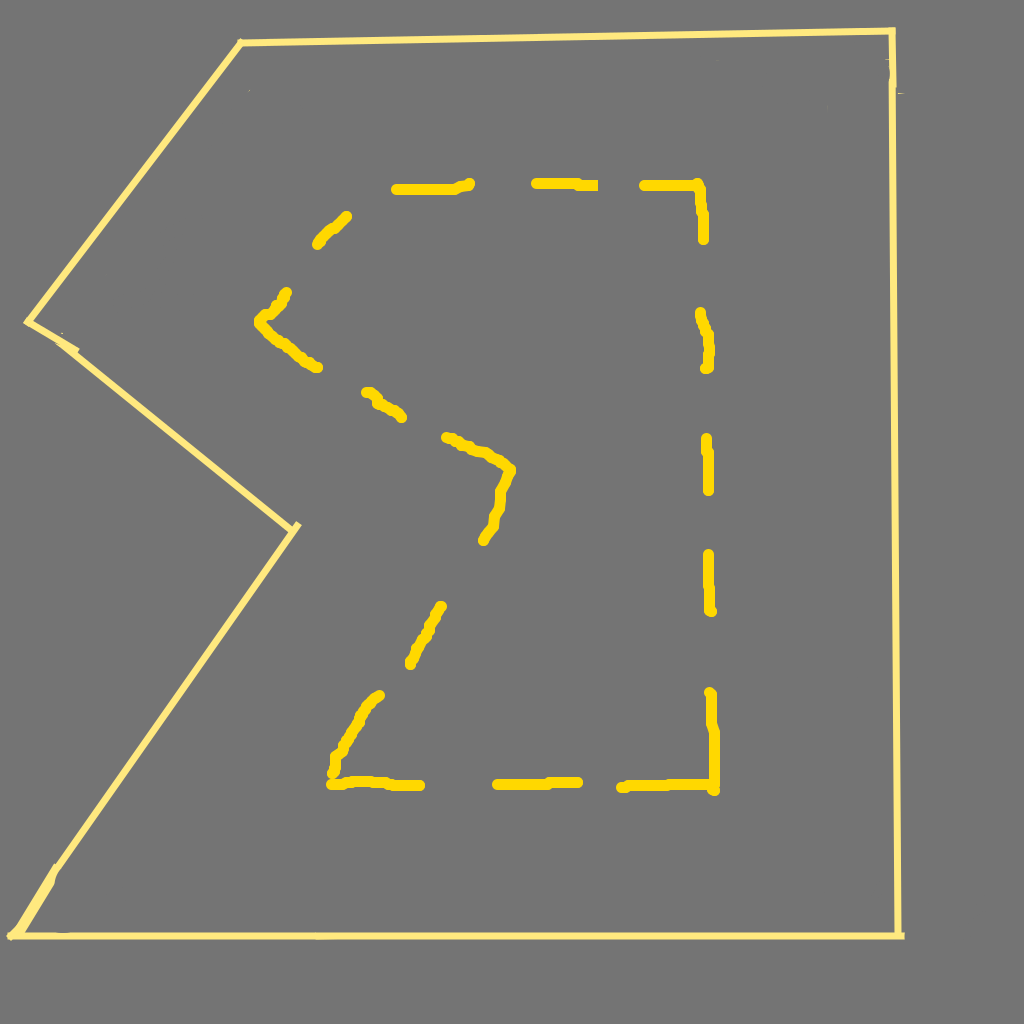
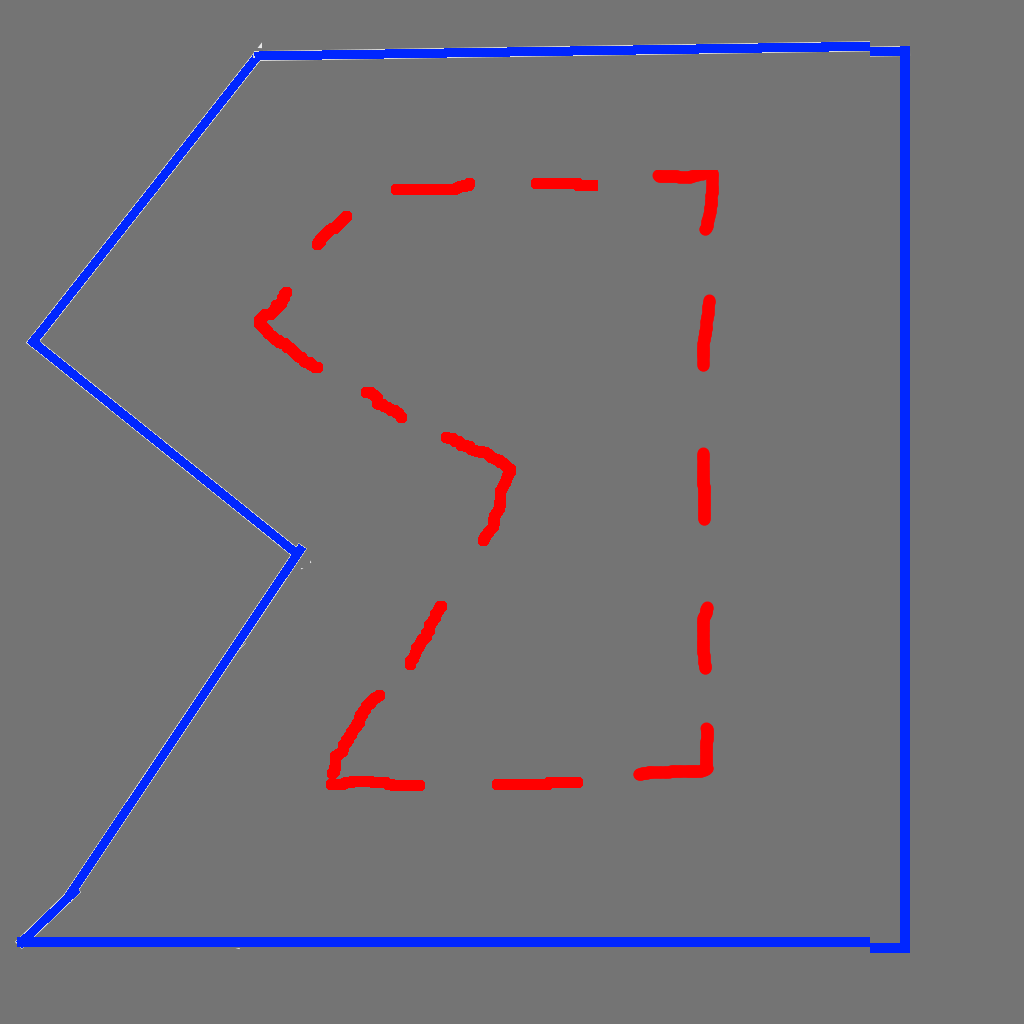
added 2 line tracking base

diff --git a/src/competition2/follower_p.py b/src/competition2/follower_p.py
@@ -8,25 +8,39 @@ class Follower:
   def __init__(self):
     self.bridge = cv_bridge.CvBridge()
     cv2.namedWindow("window", 1)
-    cv2.namedWindow("raw_mask", 1)
-    cv2.namedWindow("refined_mask", 1)
+    #cv2.namedWindow("raw_mask", 1)
+    cv2.namedWindow("white_refined_mask", 1)
+    cv2.namedWindow("yellow_refined_mask", 1)
     cv2.namedWindow("light_mask", 1)
-    cv2.namedWindow("trimmed_mask", 1)
+    cv2.namedWindow("white_trimmed_mask", 1)
+    cv2.namedWindow("yellow_trimmed_mask", 1)
     self.image_sub = rospy.Subscriber('camera/rgb/image_raw', 
                                       Image, self.image_callback)
     self.cmd_vel_pub = rospy.Publisher('cmd_vel_mux/input/teleop',
                                        Twist, queue_size=1)
     self.twist = Twist()
 
+    #white lines
     self.lower_hsv = numpy.array([\
       rospy.get_param("~lower_hsv/h", 110),\
-      rospy.get_param("~lower_hsv/s", 100),\
-      rospy.get_param("~lower_hsv/v", 100)])
+      rospy.get_param("~lower_hsv/s", 50),\
+      rospy.get_param("~lower_hsv/v", 50)])
     self.upper_hsv = numpy.array([\
       rospy.get_param("~upper_hsv/h", 130),\
       rospy.get_param("~upper_hsv/s", 255),\
       rospy.get_param("~upper_hsv/v", 255)])
+
+    #yellow lines
+    self.yellow_lower_hsv = numpy.array([\
+      rospy.get_param("~yellow_lower_hsv/h", 0),\
+      rospy.get_param("~yellow_lower_hsv/s", 100),\
+      rospy.get_param("~yellow_lower_hsv/v", 100)])
+    self.yellow_upper_hsv = numpy.array([\
+      rospy.get_param("~yellow_upper_hsv/h", 10),\
+      rospy.get_param("~yellow_upper_hsv/s", 255),\
+      rospy.get_param("~yellow_upper_hsv/v", 255)])
     
+    #Red lines
     self.light1_lower_hsv = numpy.array([\
       rospy.get_param("~light1/lower_hsv/h", 0),\
       rospy.get_param("~light1/lower_hsv/s", 200),\
@@ -44,11 +58,13 @@ class Follower:
       rospy.get_param("~light2/upper_hsv/s", 255),\
       rospy.get_param("~light2/upper_hsv/v", 255)])
 
+
     self.line_search_bot = rospy.get_param("~line/search_bot_height_fraction", 1.0)
     self.line_search_top = rospy.get_param("~line/search_top_height_fraction", 0.75)
 
 
-    self.prev_err = 0
+    self.white_prev_err = 0
+    self.yellow_prev_err = 0
     self.red_light = False
 
   def image_callback(self, msg):
@@ -76,68 +92,78 @@ class Follower:
     #debug
     #self.red_light = False
 
-    # find line
-    mask = cv2.inRange(hsv, self.lower_hsv, self.upper_hsv)
-    cv2.imshow("raw_mask", mask)
+    # find white line
+    white_mask = cv2.inRange(hsv, self.lower_hsv, self.upper_hsv)
+    # cv2.imshow("raw_mask", mask)
 
     e_kernel = numpy.ones((5,5), numpy.uint8)
     d_kernel = numpy.ones((3,3), numpy.uint8)
-    mask = cv2.dilate(mask, d_kernel, iterations=1)
-    mask = cv2.erode(mask, e_kernel, iterations=1)
-    cv2.imshow("refined_mask", mask)
+    white_mask = cv2.dilate(white_mask, d_kernel, iterations=1)
+    white_mask = cv2.erode(white_mask, e_kernel, iterations=1)
+    cv2.imshow("white_refined_mask", white_mask)
     
     h, w, d = image.shape
     search_top = int(float(h) * self.line_search_top)
     search_bot = int(float(h) * self.line_search_bot)
 
-    mask[0:search_top, 0:w] = 0
-    mask[search_bot:h, 0:w] = 0
-    cv2.imshow("trimmed_mask", mask)
+    white_mask[0:search_top, 0:w] = 0
+    white_mask[search_bot:h, 0:w] = 0
+    cv2.imshow("white_trimmed_mask", white_mask)
 
-    #thomas code    
-    #mask2 = cv2.inRange(hsv, self.lower_hsv, self.upper_hsv)
-    #mask2[0:search_top, 0:w] = 0
-    #mask2[0:h, w-250:w] = 0
-    #mask2[0:h, 0:250] = 0
-    #mask2[0:250, 0:w] = 0
-    #mask2[0:h, 0:w] = 0
-    #cv2.circle(mask2, (w/2, h-75), 20, (40,0,255), -1)
 
-    #circle_img = numpy.zeros((h,w), numpy.uint8)
-    #cv2.circle(circle_img,(w/2,h-70),50,1,thickness=-1)
-    #mask2 = cv2.bitwise_and(mask,mask,mask=circle_img)
+    # find yellow line
+    yellow_mask = cv2.inRange(hsv, self.yellow_lower_hsv, self.yellow_upper_hsv)
+    # cv2.imshow("raw_mask", mask)
 
-    #cv2.imshow("thomas_trimmed_mask", mask2)
-    #line_pixels = cv2.findNonZero(mask2)
-    #print str(line_pixels)
-    #isLine = False
-    #if (line_pixels != None):
-      #print str(line_pixels[0][0][0])
-      #isLine = True
+    e_kernel = numpy.ones((5,5), numpy.uint8)
+    d_kernel = numpy.ones((3,3), numpy.uint8)
+    yellow_mask = cv2.dilate(yellow_mask, d_kernel, iterations=1)
+    yellow_mask = cv2.erode(yellow_mask, e_kernel, iterations=1)
+    cv2.imshow("yellow_refined_mask", yellow_mask)
+    
+    h, w, d = image.shape
+    search_top = int(float(h) * self.line_search_top)
+    search_bot = int(float(h) * self.line_search_bot)
 
-    M = cv2.moments(mask)
-    if M['m00'] > 0 and not self.red_light:
-      cx = int(M['m10']/M['m00'])
-      cy = int(M['m01']/M['m00'])
-      cv2.circle(image, (cx, cy), 20, (0,0,255), -1)
-      #cx = w/2
-      #cy = h - 75
-      #cv2.circle(image, (cx, cy), 20, (40,0,255), -1)
-      # BEGIN CONTROL
-      err = cx - float(w) * 0.75
-      derr = err - self.prev_err
-      #print(str(err))
+    yellow_mask[0:search_top, 0:w] = 0
+    yellow_mask[search_bot:h, 0:w] = 0
+    cv2.imshow("yellow_trimmed_mask", yellow_mask)
+
+
+    whiteM = cv2.moments(white_mask)
+    yellowM = cv2.moments(yellow_mask)
+    if ((whiteM['m00'] > 0) or (yellowM['m00'] > 0) )  and not self.red_light:
 
       kp = 0.01
       kd = 0.01
-      self.twist.linear.x = 0.2
-      self.twist.angular.z = -float(err) * kp + float(derr) * kd
+      white_err = 0
+      yellow_err = 0
+	
+      if(whiteM['m00'] != 0):
+        white_cx = int(whiteM['m10']/whiteM['m00'])
+        white_cy = int(whiteM['m01']/whiteM['m00'])
+        cv2.circle(image, (white_cx, white_cy), 20, (0,0,180), -1)
+        white_err = white_cx - float(w) * 0.75
+        white_derr = white_err - self.white_prev_err
+        self.twist.angular.z = -float(white_err) * kp + float(white_derr) * kd
+
+      if(yellowM['m00'] != 0):
+        yellow_cx = int(yellowM['m10']/yellowM['m00'])
+        yellow_cy = int(yellowM['m01']/yellowM['m00'])
+        cv2.circle(image, (yellow_cx, yellow_cy), 20, (0,90,180), -1)
+        yellow_err = yellow_cx - float(w) * 0.25
+        yellow_derr = yellow_err - self.yellow_prev_err
+        self.twist.angular.z = -float(yellow_err) * kp + float(yellow_derr) * kd
+
+
+      self.twist.linear.x = 0.1
       
       print(self.twist.angular.z)      
 
       self.cmd_vel_pub.publish(self.twist)
 
-      self.prev_err = err
+      self.white_prev_err = white_err
+      self.yellow_prev_err = yellow_err
       # END CONTROL
     else:
       self.cmd_vel_pub.publish(Twist())
